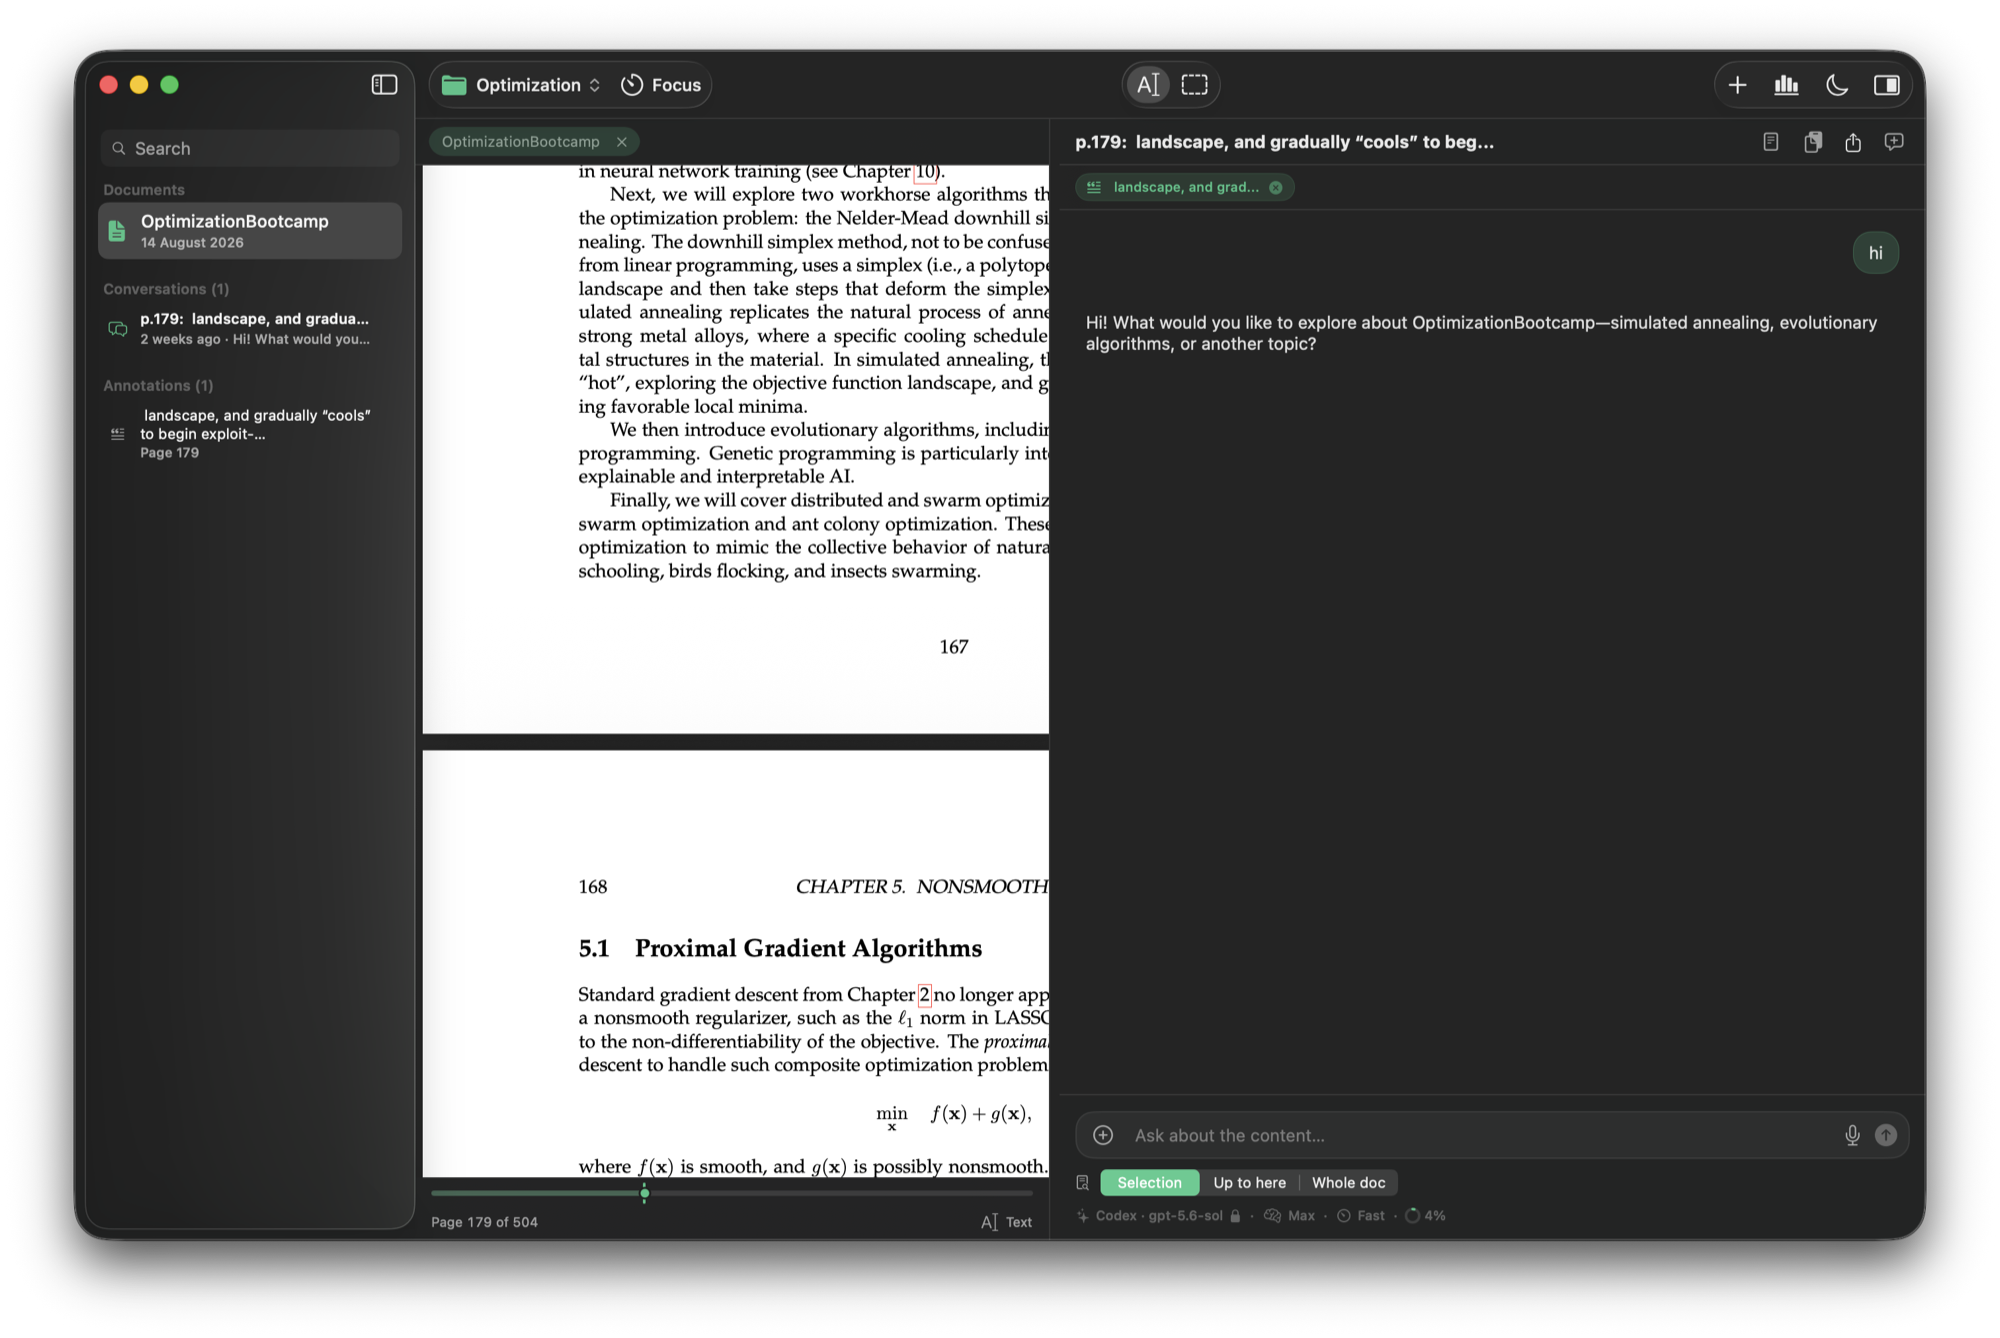
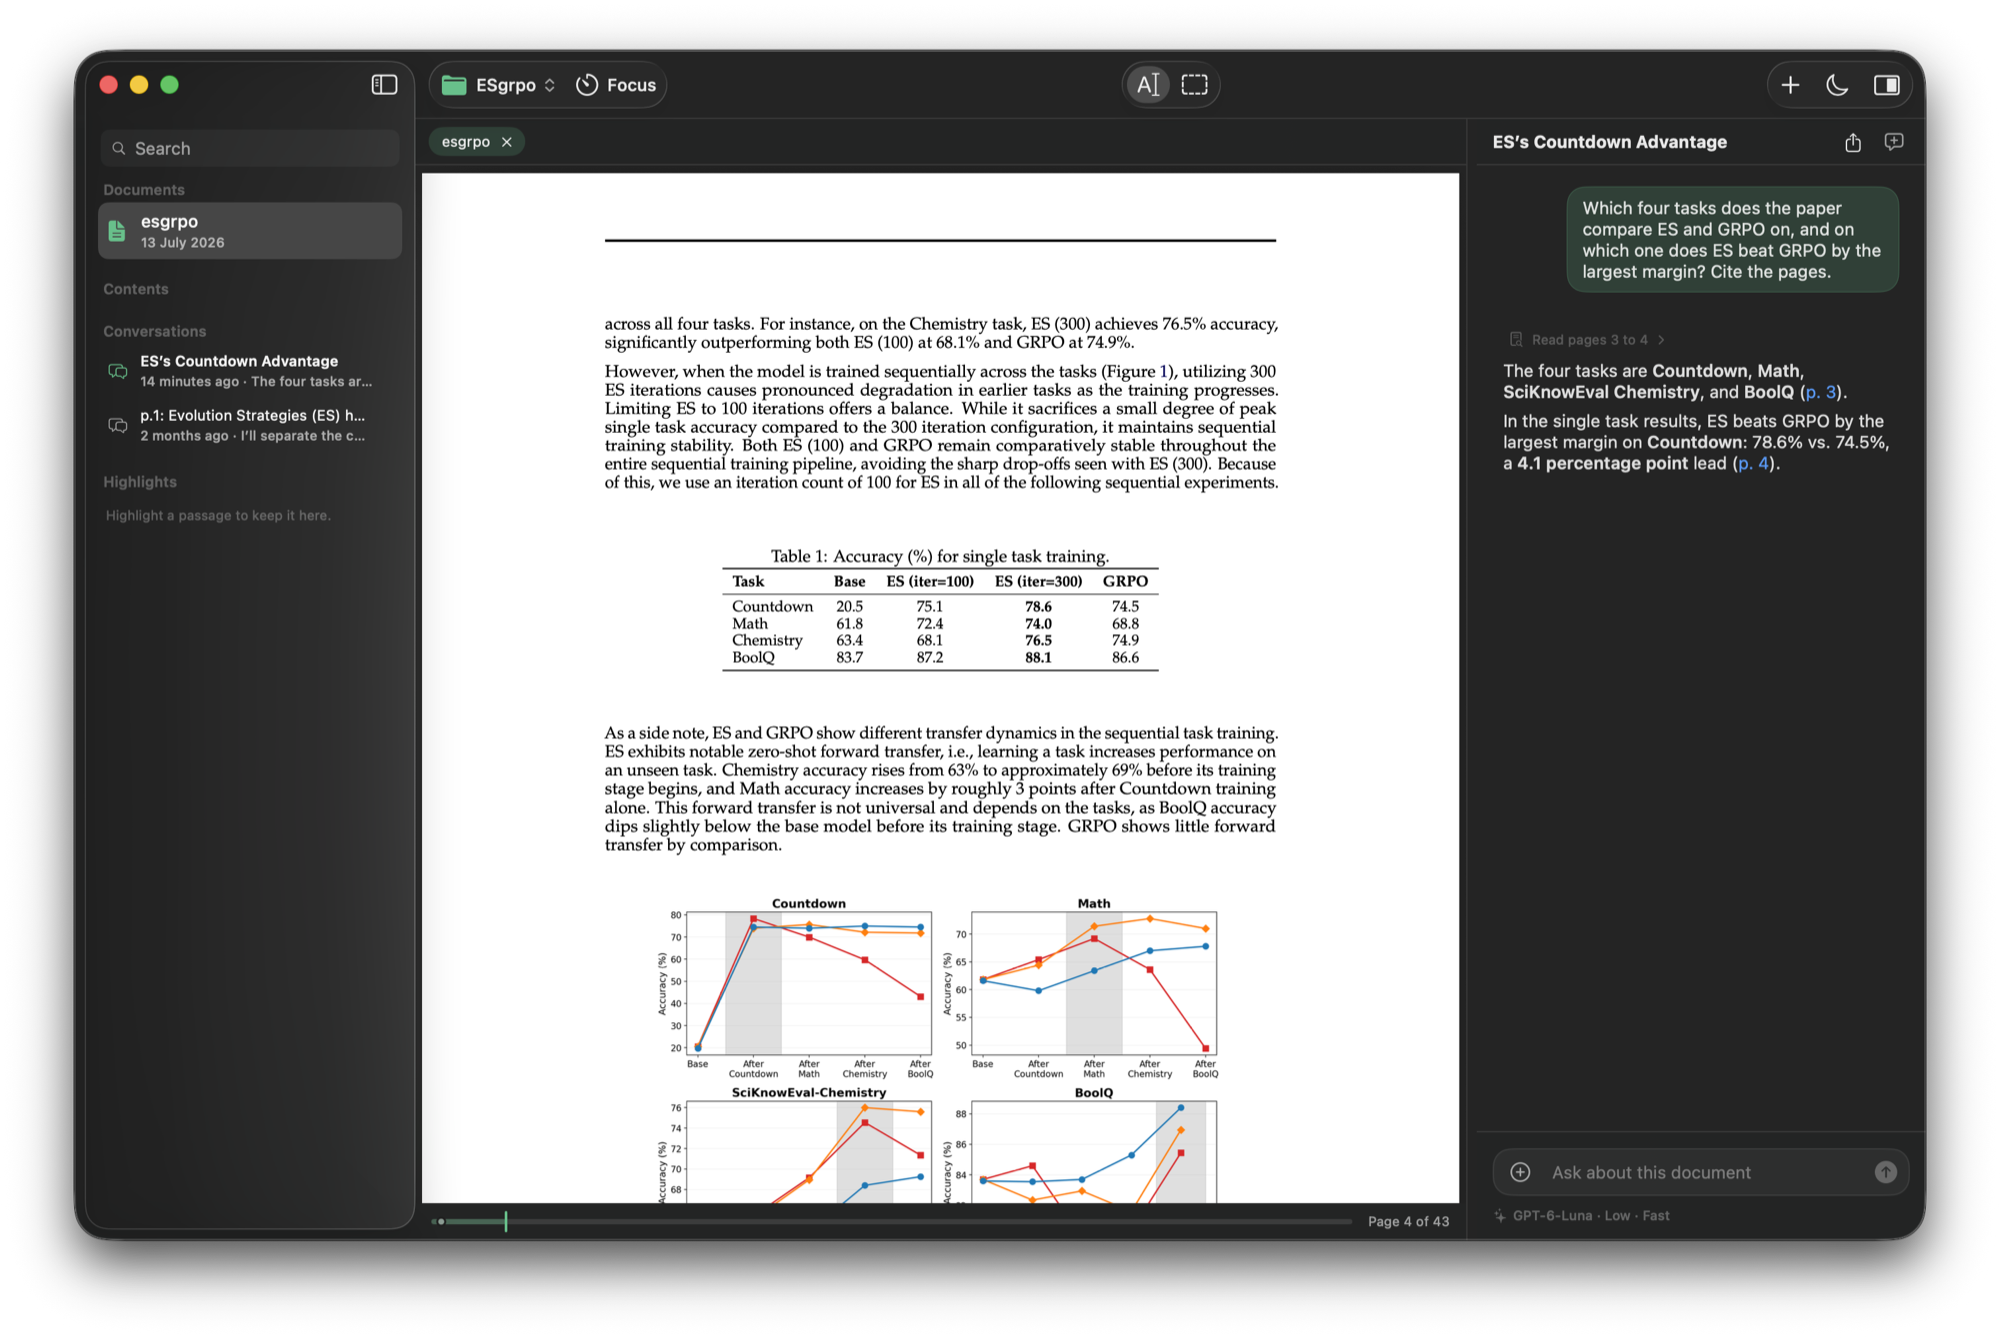
0.4.0 goes live: appcast, site and README
The model reads the document itself. Appcast build 6 (EdDSA-signed), the
landing page with the animated turn and fresh screenshots, the README's
feature list and security note for 0.4.

diff --git a/index.html b/index.html
@@ -4,7 +4,7 @@
 <meta charset="UTF-8" />
 <meta name="viewport" content="width=device-width, initial-scale=1.0" />
 <title>Internalize, the AI PDF reader that runs on your ChatGPT plan</title>
-<meta name="description" content="Internalize is a free, native macOS PDF reader with AI conversations grounded in your documents, running on your own ChatGPT plan through Codex. No API keys, no subscription, no servers." />
+<meta name="description" content="Internalize is a free, native macOS PDF reader where the AI reads the document itself, cites the page, and runs on your own ChatGPT plan through Codex. No API keys, no subscription, no servers." />
 <meta property="og:title" content="Internalize. Don't just read." />
 <meta property="og:description" content="Free, native macOS AI PDF reader. Runs on your own ChatGPT plan. No API keys." />
 <meta property="og:image" content="https://getinternalize.com/icon.png" />
@@ -125,6 +125,58 @@
   .step p { color: var(--ink-2); font-size: 16px; line-height: 1.5; }
   .step a { border-bottom: 1px solid var(--line); }
 
+  /* ── Demo: a question, read before it's answered ── */
+  .demo-wrap { display: grid; grid-template-columns: 1fr 1.1fr; gap: clamp(28px, 5vw, 80px); align-items: center; margin-top: clamp(40px, 6vw, 80px); }
+  .demo {
+    position: relative; border-radius: 16px; padding: 22px 22px 26px; min-height: 340px;
+    background: #14130f; border: 1px solid rgba(244,241,234,0.1);
+    box-shadow: 0 30px 80px rgba(0,0,0,0.5); font-size: 15px; line-height: 1.45;
+    font-family: -apple-system, BlinkMacSystemFont, "Helvetica Neue", Helvetica, Arial, sans-serif;
+    color: var(--chalk); overflow: hidden;
+  }
+  .demo .q {
+    margin-left: auto; width: fit-content; max-width: 78%; padding: 9px 13px; border-radius: 12px;
+    background: rgba(78, 168, 120, 0.22); border: 1px solid rgba(78,168,120,0.35);
+  }
+  .demo .steps { margin-top: 18px; display: grid; gap: 6px; font-size: 13.5px; color: var(--chalk-2); }
+  .demo .step { display: flex; align-items: center; gap: 8px; }
+  .demo .step svg { width: 13px; height: 13px; flex-shrink: 0; opacity: .8; }
+  .demo .step .dots::after { content: "…"; }
+  .demo .fold { display: flex; align-items: center; gap: 8px; margin-top: 18px; font-size: 13.5px; color: var(--chalk-2); }
+  .demo .fold svg { width: 13px; height: 13px; opacity: .8; }
+  .demo .fold .chev { font-size: 11px; opacity: .7; }
+  .demo .a { margin-top: 12px; color: var(--chalk); }
+  .demo .a p + p { margin-top: 8px; }
+  .demo .a .pg { color: #6fb7ff; }
+  .demo .a b { font-weight: 600; }
+  .demo .bar { position: absolute; left: 22px; right: 22px; bottom: 12px; font-size: 12px; color: rgba(244,241,234,0.45); display: flex; align-items: center; gap: 6px; }
+  .demo .bar .ring { width: 10px; height: 10px; border-radius: 50%; border: 1.5px solid rgba(244,241,234,0.25); border-top-color: #4ea878; }
+
+  /* One shared 16 s timeline; each element's keyframes place it on it, so the whole
+     scene restarts together. Question at 0.6 s, the two steps at 1.8 s and 3.8 s, the
+     fold and the answer from 5.6 s, everything gone at 13.4 s. */
+  .demo .q, .demo .step, .demo .fold, .demo .a p { opacity: 0; }
+  .demo .q     { animation: demo-q 16s ease infinite; }
+  .demo .s1    { animation: demo-s1 16s ease infinite; }
+  .demo .s2    { animation: demo-s2 16s ease infinite; }
+  .demo .steps { animation: demo-steps 16s step-end infinite; }
+  .demo .fold  { animation: demo-fold 16s ease infinite; }
+  .demo .a .l1 { animation: demo-l1 16s ease infinite; }
+  .demo .a .l2 { animation: demo-l2 16s ease infinite; }
+  @keyframes demo-q    { 0%, 3.7% { opacity: 0; transform: translateY(6px); } 6% { opacity: 1; transform: none; } 84% { opacity: 1; } 88%, 100% { opacity: 0; } }
+  @keyframes demo-s1   { 0%, 11% { opacity: 0; transform: translateY(4px); } 13% { opacity: 1; transform: none; } 33% { opacity: 1; } 35%, 100% { opacity: 0; } }
+  @keyframes demo-s2   { 0%, 23.5% { opacity: 0; transform: translateY(4px); } 25.5% { opacity: 1; transform: none; } 33% { opacity: 1; } 35%, 100% { opacity: 0; } }
+  @keyframes demo-steps { 0%, 35% { height: auto; margin-top: 18px; } 35.1%, 100% { height: 0; margin-top: 0; overflow: hidden; } }
+  @keyframes demo-fold { 0%, 35% { opacity: 0; } 38% { opacity: 1; } 84% { opacity: 1; } 88%, 100% { opacity: 0; } }
+  @keyframes demo-l1   { 0%, 38.5% { opacity: 0; transform: translateY(6px); } 41% { opacity: 1; transform: none; } 84% { opacity: 1; } 88%, 100% { opacity: 0; } }
+  @keyframes demo-l2   { 0%, 46% { opacity: 0; transform: translateY(6px); } 48.5% { opacity: 1; transform: none; } 84% { opacity: 1; } 88%, 100% { opacity: 0; } }
+  @keyframes demo-fold { 0% { opacity: 0; } 4% { opacity: 1; } 84% { opacity: 1; } 90%, 100% { opacity: 0; } }
+  @media (prefers-reduced-motion: reduce) {
+    .demo .q, .demo .fold, .demo .a p { opacity: 1; animation: none; }
+    .demo .steps { display: none; }
+  }
+  @media (max-width: 900px) { .demo-wrap { grid-template-columns: 1fr; } }
+
   /* ── Image break: The Geographer ────────────────── */
   .break {
     position: relative; min-height: 78svh; color: var(--chalk); display: flex; align-items: flex-end;
@@ -191,7 +243,7 @@
   </nav>
   <div class="wrap">
     <h1 class="display">don't just read.<br />internalize.</h1>
-    <p class="sub">A native Mac reader where you converse with what you're reading. Built on Codex, so the AI runs on the ChatGPT plan you already pay for.</p>
+    <p class="sub">A native Mac reader where you converse with what you're reading. The AI reads the document itself and cites the page. Built on Codex, so it runs on the ChatGPT plan you already pay for.</p>
     <div class="cta">
       <a class="pill light" id="dl-btn" href="https://github.com/seyeint/internalize-releases/releases/latest">
         <svg viewBox="0 0 24 24" fill="none" stroke="currentColor" stroke-width="2.2" stroke-linecap="round" stroke-linejoin="round"><path d="M21 15v4a2 2 0 0 1-2 2H5a2 2 0 0 1-2-2v-4"/><polyline points="7 10 12 15 17 10"/><line x1="12" y1="15" x2="12" y2="3"/></svg>
@@ -209,7 +261,7 @@
     <p class="eyebrow">what it is</p>
     <div class="two">
       <h2 class="statement">conversations with what you're reading.</h2>
-      <p class="lead">Select a passage or draw a box over a figure, choose how much of the document the model sees, and ask. Every answer is anchored to the page. When a reply says “p. 12”, you click it and you're there.</p>
+      <p class="lead">Ask anything about the document, or select a passage first. The model looks up the pages your question needs and cites them; when a reply says “p. 12”, you click it and you're there.</p>
     </div>
     <div class="shot"><img src="screenshot-reading.png" alt="Internalize: a PDF beside a conversation about it" loading="lazy" /></div>
   </div>
@@ -218,19 +270,37 @@
 <section class="on-night" id="features">
   <div class="wrap">
     <p class="eyebrow">the reading tool, not a chatbot with a file picker</p>
-    <h2 class="statement">it sees what you see.</h2>
+    <div class="demo-wrap">
+      <div>
+        <h2 class="statement">it reads before it answers.</h2>
+        <p class="lead" style="margin-top:22px">The model has the document's table of contents and two tools: search its text, read its pages. It looks up what your question needs, cites what it found, and every step shows in the conversation. A short paper travels whole; a long book is read on demand.</p>
+      </div>
+      <div class="demo" aria-label="A question being answered: the model searches the document, reads two pages, and replies with page citations">
+        <div class="q">Which four tasks does the paper compare, and where does ES win by the most?</div>
+        <div class="steps">
+          <div class="step s1"><svg viewBox="0 0 24 24" fill="none" stroke="currentColor" stroke-width="2.2" stroke-linecap="round"><circle cx="11" cy="11" r="7"/><path d="m20 20-3.5-3.5"/></svg><span>Searching the document for “four tasks”<span class="dots"></span></span></div>
+          <div class="step s2"><svg viewBox="0 0 24 24" fill="none" stroke="currentColor" stroke-width="2.2" stroke-linecap="round" stroke-linejoin="round"><path d="M14 3H7a2 2 0 0 0-2 2v14a2 2 0 0 0 2 2h10a2 2 0 0 0 2-2V8z"/><path d="M14 3v5h5"/></svg><span>Reading pages 3 to 4<span class="dots"></span></span></div>
+        </div>
+        <div class="fold"><svg viewBox="0 0 24 24" fill="none" stroke="currentColor" stroke-width="2.2" stroke-linecap="round" stroke-linejoin="round"><path d="M14 3H7a2 2 0 0 0-2 2v14a2 2 0 0 0 2 2h10a2 2 0 0 0 2-2V8z"/><path d="M14 3v5h5"/></svg><span>Read pages 3 to 4 · 2 steps</span><span class="chev">›</span></div>
+        <div class="a">
+          <p class="l1">The four tasks are <b>Countdown</b>, <b>Math</b>, <b>SciKnowEval Chemistry</b> and <b>BoolQ</b> <span class="pg">(p. 3)</span>.</p>
+          <p class="l2">ES beats GRPO by the largest margin on <b>Countdown</b>: 78.6% vs 74.5%, a 4.1 point lead <span class="pg">(p. 4)</span>.</p>
+        </div>
+        <div class="bar"><span class="ring"></span><span>GPT-6 Astra · High</span></div>
+      </div>
+    </div>
     <div class="features">
       <div class="feature">
-        <h3 class="h3">grounded, by your choice</h3>
-        <p>One tap decides what the model reads: your selection, everything up to your page, or the whole book. Context is never re-sent when it hasn't changed.</p>
+        <h3 class="h3">highlights that stay</h3>
+        <p>Highlight a passage and it stays on the page in the color you chose, with a note if you like. Click it to ask about it. Export them all as Markdown.</p>
       </div>
       <div class="feature">
         <h3 class="h3">diagrams too</h3>
-        <p>Draw over any figure or equation and ask. Captures travel with the conversation as annotations, mapped to their place in the document.</p>
+        <p>Draw over any figure or equation and ask. Captures travel with the conversation, mapped to their place in the document.</p>
       </div>
       <div class="feature">
         <h3 class="h3">a reading life, kept</h3>
-        <p>Projects, documents, annotations, conversations, all local. A focus timer, a heatmap of your days, and your plan usage in the footer. <code>⌘F</code> finds anything.</p>
+        <p>Projects, documents, highlights, conversations, all local. The PDF's own contents in the sidebar, scanned pages read on your Mac, <code>⌘F</code> that finds anything.</p>
       </div>
     </div>
   </div>
@@ -248,7 +318,7 @@
       <div class="step"><div class="n">02</div><h4>download internalize</h4><p>Open the DMG, drag to Applications, launch. Signed and notarized, no warnings, no setup, and it updates itself from then on.</p></div>
       <div class="step"><div class="n">03</div><h4>read deeper</h4><p>Drop a PDF on the welcome screen, select anything, and ask. Your documents, annotations, and conversations persist in projects, locally.</p></div>
     </div>
-    <div class="shot"><img src="screenshot-hub.png" alt="The project hub: every project as a card wearing its document's title page" loading="lazy" /></div>
+    <div class="shot"><img src="screenshot-hub.jpg" alt="The project hub: every project as a card wearing its document's title page" loading="lazy" /></div>
   </div>
 </section>
 
@@ -267,7 +337,7 @@
       <div class="pv"><h4>your documents stay on your mac</h4><p>The only network traffic is your own AI requests, through your own Codex installation.</p></div>
       <div class="pv"><h4>no telemetry, no analytics, no accounts</h4><p>We operate zero servers. Verify it with any network monitor.</p></div>
       <div class="pv"><h4>credentials never touch internalize</h4><p>You sign in inside the ChatGPT app; Internalize only reads that it's there.</p></div>
-      <div class="pv"><h4>codex runs caged</h4><p>Read-only sandbox, approvals off, an isolated profile with browser, computer and app access switched off. It can answer. It can't act.</p></div>
+      <div class="pv"><h4>codex runs caged</h4><p>Read-only sandbox, approvals off, an isolated profile with the shell, browser, computer and app access switched off. It can read your document and search the web. It can't act on your Mac.</p></div>
     </div>
   </div>
 </section>
@@ -287,7 +357,7 @@
       </details>
       <details>
         <summary>does internalize see my chatgpt password or data?</summary>
-        <p>No. You sign in inside the ChatGPT app. Internalize never handles credentials. It runs Codex in an isolated, read-only profile, so your personal Codex setup is untouched and the app can't perform actions through it, only conversations.</p>
+        <p>No. You sign in inside the ChatGPT app. Internalize never handles credentials. It runs Codex in an isolated, read-only profile with no shell, so your personal Codex setup is untouched and the app can't perform actions through it, only conversations.</p>
       </details>
       <details>
         <summary>which macs does it support?</summary>

diff --git a/README.md b/README.md
@@ -6,7 +6,7 @@
 
 **A native Mac PDF reader where you converse with what you're reading, on the ChatGPT plan you already have.**
 
-Select a passage, capture a diagram, ask anything. Every answer is anchored to the page.
+Ask anything about the document, or select a passage first. The AI reads the pages your question needs and cites them.
 No API keys, no subscription, no servers. Free.
 
 ### [⬇ Download the latest version](https://github.com/seyeint/internalize-releases/releases/latest) · [getinternalize.com](https://getinternalize.com)
@@ -30,16 +30,18 @@ The app is signed and notarized by Apple, so it opens without warnings. Updates 
 
 ## Features
 
-- 📄 Native PDF reading with per-document zoom, ⌘F search, and drag-and-drop import
-- 🤖 Streamed AI conversations grounded in your selection, your pages, or the whole document
+- 🤖 The AI reads the document itself: it has the table of contents and two tools (search the text, read pages), looks up what your question needs, and cites the pages. A short document travels in full; a long book is read on demand. Every step shows in the conversation
+- 🖍 Highlights that stay on the page in the color you chose, with notes, exported as Markdown
+- 📑 The PDF's own contents in the sidebar, with the chapter you're in marked
+- 🔍 Scanned PDFs get their text recognized on your Mac, once; ⌘F search works on them too
 - 🔗 Page references in answers are links: click "p. 12" and you're there
 - ✍ Area capture for diagrams and equations (vision)
-- 🗂 A project hub where every project wears its document's title page
-- 🗺 Document map: every annotation anchored to its exact place, plus reading progress
+- 🗂 A project hub where every project wears its document's title page; Open With ▸ Internalize from the Finder
+- 🗺 Document map: every highlight anchored to its exact place, plus reading progress
 - ⏱ Focus timer with a reading activity dashboard: heatmap, streaks, time by project
-- 📊 Your ChatGPT plan usage, right in the chat footer
-- 🎙 Voice: dictate questions, hear answers read aloud
-- 📤 Export any conversation to Markdown
+- 📊 Your ChatGPT plan usage, in the reply menu and beside it when it's running low
+- 🔊 Hear answers read aloud
+- 📤 Export conversations and highlights to Markdown
 
 ## Privacy and security model
 
@@ -47,7 +49,7 @@ Internalize is built local-first and is honest about what it touches:
 
 - **Your documents and conversations never leave your Mac** except as AI requests through your own Codex installation, the same path as chatting in the ChatGPT app itself
 - **No telemetry, no analytics, no accounts, no servers operated by us**
-- Codex runs in an **isolated, read-only profile** with browser, computer, app, plugin, and multi-agent capabilities switched off: Internalize can ask it questions and nothing else, and your personal Codex configuration is never loaded
+- Codex runs in an **isolated, read-only profile** with the shell, browser, computer, app, plugin, and multi-agent capabilities switched off: the model can read your document and search the web, and nothing else. Your personal Codex configuration is never loaded
 - Your ChatGPT credentials are **never handled by Internalize**. Sign-in happens in the ChatGPT app; verify all of this with any network monitor
 
 ## Support
